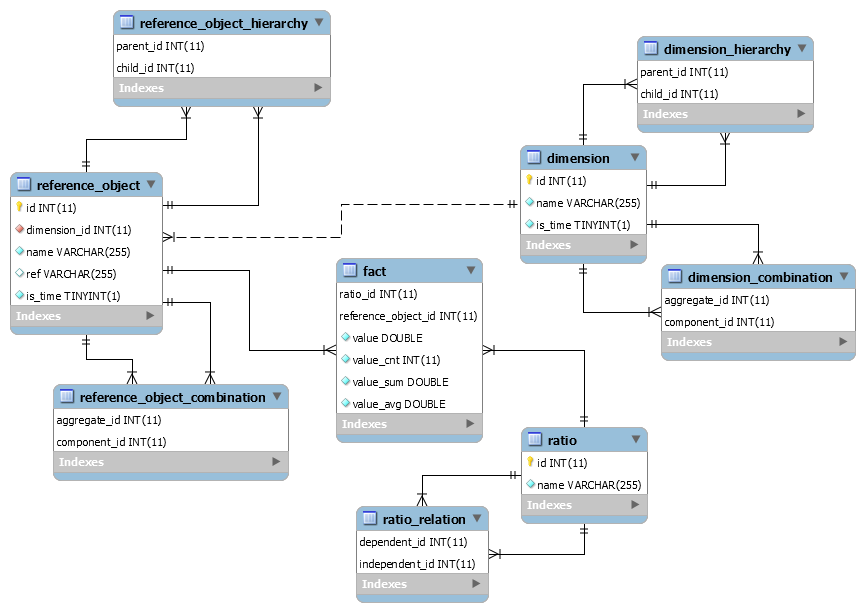
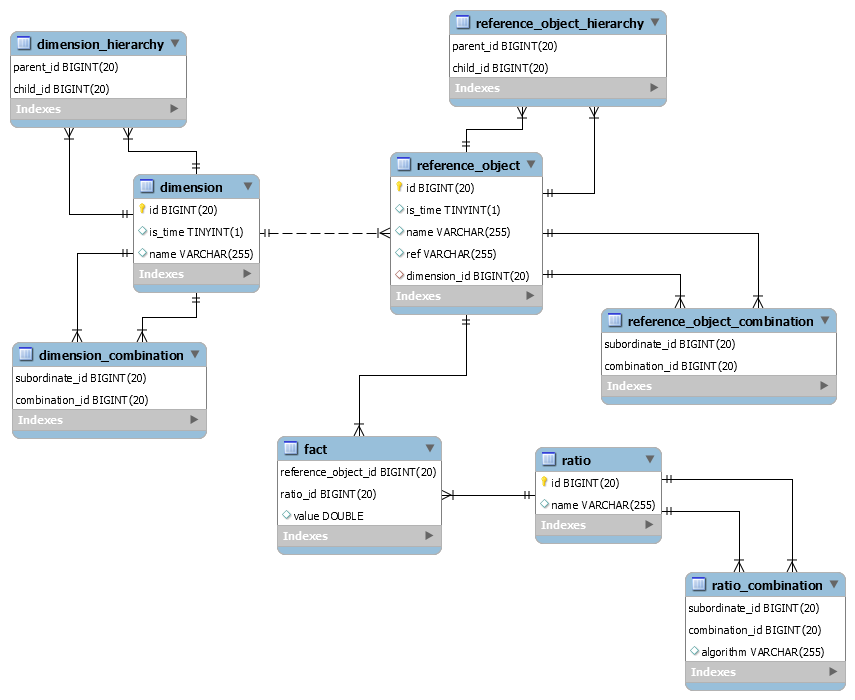
added star schema controller and schema.png

diff --git a/generic-dwh-web/src/main/resources/templates/fragments/layout.html b/generic-dwh-web/src/main/resources/templates/fragments/layout.html
@@ -30,9 +30,9 @@
     <div class="collapse navbar-collapse" id="navbarCollapse">
         <ul class="navbar-nav mr-auto">
             <li class="nav-item active">
-                <a class="nav-link" th:href="@{/}">
-                    <i class="icon ion-md-home"></i>
-                    Home <span class="sr-only">(current)</span>
+                <a class="nav-link" th:href="@{/stats}">
+                    <i class="icon ion-md-stats"></i>
+                    Stats <span class="sr-only">(current)</span>
                 </a>
             </li>
             <li class="nav-item dropdown">
@@ -54,8 +54,8 @@
                 <div class="dropdown-menu" aria-labelledby="dropdown08">
                     <a class="dropdown-item" th:href="@{/genericdwh}">DB Model</a>
                     <a class="dropdown-item" th:href="@{/genericdwh/slidesdata}">Data from Slides</a>
-                    <a class="dropdown-item" th:href="@{/oups}">Small </a>
-                    <a class="dropdown-item" th:href="@{/oups}">1GB </a>
+                    <a class="dropdown-item" th:href="@{/genericdwh/small/query}">Small </a>
+                    <a class="dropdown-item" th:href="@{/genericdwh/1gb/query}">1GB </a>
                     <a class="dropdown-item" th:href="@{/oups}">10GB </a>
                     <a class="dropdown-item" th:href="@{/oups}">100GB </a>
                 </div>
@@ -66,8 +66,8 @@
                     Star Schema</a>
                 <div class="dropdown-menu" aria-labelledby="dropdown08">
                     <a class="dropdown-item" th:href="@{/starschema}">DB Model</a>
-                    <a class="dropdown-item" th:href="@{/oups}">Small </a>
-                    <a class="dropdown-item" th:href="@{/oups}">1GB </a>
+                    <a class="dropdown-item" th:href="@{/starschema/small/query}">Small </a>
+                    <a class="dropdown-item" th:href="@{/starschema/1gb/query}">1GB </a>
                     <a class="dropdown-item" th:href="@{/oups}">10GB </a>
                     <a class="dropdown-item" th:href="@{/oups}">100GB </a>
                 </div>
@@ -85,23 +85,15 @@
                 </div>
             </li>
             <li class="nav-item">
-                <a class="nav-link" th:href="@{/stats}">
-                    <i class="icon ion-md-stats"></i>
-                    Stats</a>
-            </li>
-            <li class="nav-item">
                 <a class="nav-link" th:href="@{/credits}">
                     <i size="large" class="icon ion-md-flag"></i>
                     Credits</a>
             </li>
-<!--            <li class="nav-item">
-                <a class="nav-link disabled" href="#">Disabled</a>
-            </li>-->
         </ul>
 <!--        <form class="form-inline mt-2 mt-md-0">
             <input class="form-control mr-sm-2" type="text" placeholder="Search" aria-label="Search">
             <button class="btn btn-outline-success my-2 my-sm-0" type="submit">Search</button>
-        </form>-->
+            </form>-->
     </div>
 </nav>
 

diff --git a/generic-dwh-web/src/main/resources/templates/genericdwh/small/query.html b/generic-dwh-web/src/main/resources/templates/genericdwh/small/query.html
@@ -1,0 +1,42 @@
+<!DOCTYPE html>
+<html lang="en" xmlns:th="http://www.thymeleaf.org" th:replace="~{fragments/layout :: layout (~{::body},'query')}">
+<head>
+    <meta charset="UTF-8">
+    <title>Title</title>
+</head>
+<body>
+<main role="main" class="container">
+    <div class="jumbotron">
+        <h2>Query Generic DWH TPC-H Small</h2>
+        <p></p>
+        <p>Dimensions</p>
+        <select id="dimension" name="dimension">
+            <!--/*@thymesVar id="dimension" type="de.wwu.ercis.genericdwhapp.model.genericdwh.Dimension"*/-->
+            <option th:each="dimension : ${dimensions}" th:value="${dimension.id}" th:text="${dimension.name}">
+            </option>
+        </select>
+        <p></p>
+        <p>Reference Objects</p>
+        <select id="referenceObject" name="referenceObject">
+            <!--/*@thymesVar id="referenceObject" type="de.wwu.ercis.genericdwhapp.model.genericdwh.ReferenceObject"*/-->
+            <option th:each="referenceObject : ${referenceObjects}" th:value="${referenceObject.id}" th:text="${referenceObject.name}">
+            </option>
+        </select>
+
+        <p></p>
+        <p>Ratios</p>
+        <select id="ratio" name="ratio">
+            <!--/*@thymesVar id="referenceObject" type="de.wwu.ercis.genericdwhapp.model.genericdwh.Ratio"*/-->
+            <option th:each="ratio : ${ratios}" th:value="${ratio.id}" th:text="${ratio.name}">
+            </option>
+        </select>
+
+        <p></p>
+        <p></p>
+        <p></p>
+        <button type="button" class="btn btn-primary">Submit Query</button>
+
+    </div>
+</main>
+</body>
+</html>

diff --git a/generic-dwh-web/src/main/resources/templates/starschema/index.html b/generic-dwh-web/src/main/resources/templates/starschema/index.html
@@ -10,9 +10,8 @@
 <main role="main" class="container">
     <div class="jumbotron">
         <h2>Star Schema applied to TPC-H</h2>
-        <p class="lead">Add model...</p>
         <p></p>
-<!--        <img class="img-thumbnail" src="../static/resources/images/tpch_std_db_schema.png" th:src="@{/resources/images/tpch_std_db_schema.png}"/>-->
+        <img class="img-thumbnail" src="../static/resources/images/tpch_std_db_schema.png" th:src="@{/resources/images/tpch_star_logical_schema.png}"/>
         <p></p>
     </div>
 </main>

diff --git a/generic-dwh-web/src/main/resources/templates/starschema/small/query.html b/generic-dwh-web/src/main/resources/templates/starschema/small/query.html
@@ -1,0 +1,15 @@
+<!DOCTYPE html>
+<html lang="en" xmlns:th="http://www.thymeleaf.org" th:replace="~{fragments/layout :: layout (~{::body},'query')}">
+<head>
+    <meta charset="UTF-8">
+    <title>Title</title>
+</head>
+<body>
+<main role="main" class="container">
+    <div class="jumbotron">
+        <h2>Query Star Schema TPC-H Small</h2>
+
+    </div>
+</main>
+</body>
+</html>

diff --git a/generic-dwh-web/src/main/resources/templates/genericdwh/1gb/query.html b/generic-dwh-web/src/main/resources/templates/genericdwh/1gb/query.html
@@ -1,0 +1,15 @@
+<!DOCTYPE html>
+<html lang="en" xmlns:th="http://www.thymeleaf.org" th:replace="~{fragments/layout :: layout (~{::body},'query')}">
+<head>
+    <meta charset="UTF-8">
+    <title>Title</title>
+</head>
+<body>
+<main role="main" class="container">
+    <div class="jumbotron">
+        <h2>Query Generic DWH TPC-H 1GB</h2>
+
+    </div>
+</main>
+</body>
+</html>

diff --git a/generic-dwh-web/src/main/resources/templates/starschema/1gb/query.html b/generic-dwh-web/src/main/resources/templates/starschema/1gb/query.html
@@ -1,0 +1,15 @@
+<!DOCTYPE html>
+<html lang="en" xmlns:th="http://www.thymeleaf.org" th:replace="~{fragments/layout :: layout (~{::body},'query')}">
+<head>
+    <meta charset="UTF-8">
+    <title>Title</title>
+</head>
+<body>
+<main role="main" class="container">
+    <div class="jumbotron">
+        <h2>Query Star Schema TPC-H 1GB</h2>
+
+    </div>
+</main>
+</body>
+</html>

diff --git a/generic-dwh-web/src/main/java/de/wwu/ercis/genericdwhapp/controllers/GenericDWHController.java b/generic-dwh-web/src/main/java/de/wwu/ercis/genericdwhapp/controllers/GenericDWHController.java
@@ -1,15 +1,59 @@
 package de.wwu.ercis.genericdwhapp.controllers;
 
+import de.wwu.ercis.genericdwhapp.services.genericdwh.*;
 import org.springframework.stereotype.Controller;
+import org.springframework.ui.Model;
 import org.springframework.web.bind.annotation.RequestMapping;
 
 @Controller
 public class GenericDWHController {
 
+    private final DimensionService dimensionService;
+    private final DimensionCombinationService dimensionCombinationService;
+    private final DimensionHierarchyService dimensionHierarchyService;
+    private final ReferenceObjectService referenceObjectService;
+    private final ReferenceObjectCombinationService referenceObjectCombinationService;
+    private final ReferenceObjectHierarchyService referenceObjectHierarchyService;
+    private final RatioService ratioService;
+    private final RatioCombinationService ratioCombinationService;
+    private final FactService factService;
+
+    public GenericDWHController(DimensionService dimensionService, DimensionCombinationService dimensionCombinationService, DimensionHierarchyService dimensionHierarchyService, ReferenceObjectService referenceObjectService, ReferenceObjectCombinationService referenceObjectCombinationService, ReferenceObjectHierarchyService referenceObjectHierarchyService, RatioService ratioService, RatioCombinationService ratioCombinationService, FactService factService) {
+        this.dimensionService = dimensionService;
+        this.dimensionCombinationService = dimensionCombinationService;
+        this.dimensionHierarchyService = dimensionHierarchyService;
+        this.referenceObjectService = referenceObjectService;
+        this.referenceObjectCombinationService = referenceObjectCombinationService;
+        this.referenceObjectHierarchyService = referenceObjectHierarchyService;
+        this.ratioService = ratioService;
+        this.ratioCombinationService = ratioCombinationService;
+        this.factService = factService;
+    }
+
     @RequestMapping({"/genericdwh", "/genericdwh/index", "/genericdwh/index.html","/genericdwh.html"})
     public String getIndexPage(){
 
         return "genericdwh/index";
+    }
+
+
+    @RequestMapping("/genericdwh/small/query")
+    public String returnSmallQuery(Model model){
+        model.addAttribute("dimensions",dimensionService.findByOrderByIdAsc());
+        model.addAttribute("dimensionsCombinations", dimensionCombinationService.findByOrderByCombinationIdAsc());
+        model.addAttribute("dimensionsHierarchies",dimensionHierarchyService.findByOrderByParentIdAsc());
+        model.addAttribute("referenceObjects", referenceObjectService.findByOrderByIdAsc());
+        model.addAttribute("referenceObjectsCombinations", referenceObjectCombinationService.findByOrderByCombinationIdAsc());
+        model.addAttribute("referenceObjectsHierarchies", referenceObjectHierarchyService.findByOrderByParentIdAsc());
+        model.addAttribute("ratios", ratioService.findByOrderByIdAsc());
+        model.addAttribute("ratiosCombinations", ratioCombinationService.findByOrderByCombinationIdAsc());
+        model.addAttribute("facts", factService.findByOrderByRatioIdAsc());
+        return "genericdwh/small/query";
+    }
+
+    @RequestMapping("/genericdwh/1gb/query")
+    public String return1gbQuery(){
+        return "genericdwh/1gb/query";
     }
 
 }

diff --git a/generic-dwh-web/src/main/java/de/wwu/ercis/genericdwhapp/controllers/SnowflakeSchemaController.java b/generic-dwh-web/src/main/java/de/wwu/ercis/genericdwhapp/controllers/SnowflakeSchemaController.java
@@ -1,16 +1,26 @@
 package de.wwu.ercis.genericdwhapp.controllers;
 
 import org.springframework.stereotype.Controller;
-import org.springframework.ui.Model;
 import org.springframework.web.bind.annotation.RequestMapping;
 
 @Controller
 public class SnowflakeSchemaController {
 
     @RequestMapping({"/snowflakeschema", "/snowflakeschema/index", "/snowflakeschema/index.html","/snowflakeschema.html"})
-    public String getIndexPage(Model model){
+    public String getIndexPage(){
 
         return "snowflakeschema/index";
     }
+
+    @RequestMapping("/starschema/small/query")
+    public String returnSmallQuery(){
+        return "starschema/small/query";
+    }
+
+    @RequestMapping("/starschema/1gb/query")
+    public String return1gbQuery(){
+        return "starschema/1gb/query";
+    }
+
 
 }
